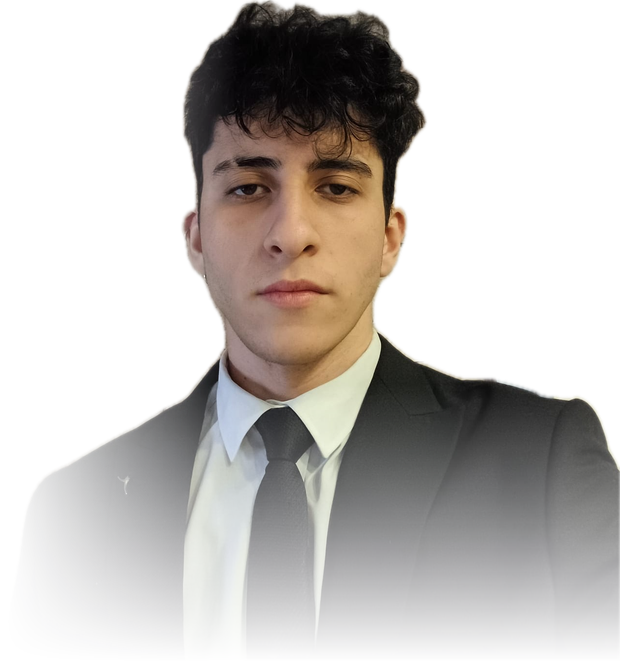
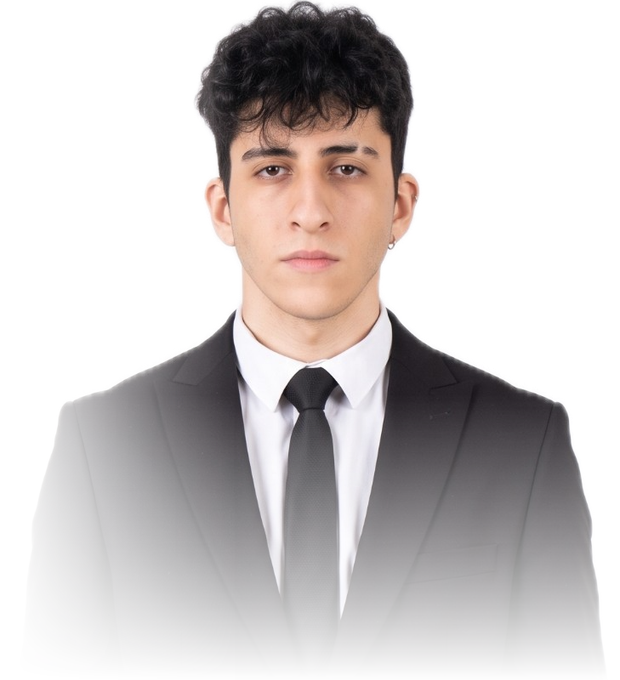
feat: use the studio portrait, lit for a dark page it was not shot against
The new frame is what the hero wanted: standing, thigh-up, plain background,
even light, and large enough that the subject survives the 2x retina crop the
old one was short of — 729px wide against a 768px requirement.

It arrives with one problem the night photograph did not have. That one was
rim-lit, which is why a cut-out of it read against a dark page. This suit is
near-black, shot on white, and nothing separates it from a dark background —
the shoulders dissolve and a face and a shirt float alone. The dark theme
therefore draws the rim itself: a `drop-shadow` follows the alpha outline
exactly, so it is a rim light and not a box shadow. The light theme inverts
it, grounding the figure with a faint shadow instead, because there the suit
is already the darkest thing on the page.

The file is renamed rather than replaced. Same-path swaps are how a stale
optimizer cache serves yesterday's picture — which it did here, twice, before
the rename made the URL tell the truth about its contents.

The share card moves to the same shoot: evenly lit beats a selfie's dropped
shoulder, and it is now one session rather than two.

The path lives in `profileFacts.portrait`, which another change had already
made the single source for both the hero and the Person structured data, so
this is one edit rather than three.

Verified at 1440 and 375 in both themes, and against the rendered OG card.

Changed region(s): [[0.0613, 0.0, 1.0, 0.9653], [0.7048, 0.6033, 0.7355, 0.6335]]

diff --git a/src/components/sections/hero-portrait.tsx b/src/components/sections/hero-portrait.tsx
@@ -18,13 +18,19 @@ const PORTRAIT = profileFacts.portrait;
  * subject mask, baked into the asset rather than run in the browser — so the
  * figure stands on the page itself and the hero's grid shows through behind him.
  *
- * What makes that work is the pool. The photograph was taken at night with rim
- * light on the hair and shoulders, and a lit edge only reads as deliberate
- * against something dark; on bare white it looks like a bad cut. So the figure
- * carries its own darkness, sized larger than he is and fading to nothing, and
- * the themes use it differently: a vignette he emerges from in the light theme,
- * a faint glow that lifts him off the background in the dark one. The colour is
- * the `--portrait-pool` token, not a value typed in here.
+ * What makes that work is the pool: the figure carries its own light, sized
+ * larger than he is and fading to nothing. The themes use it differently — a
+ * vignette he emerges from in the light theme, a glow that lifts him off the
+ * background in the dark one. The colour is the `--portrait-pool` token, not a
+ * value typed in here.
+ *
+ * The dark theme also needs a rim. The suit is near-black and the page is dark,
+ * so without one the shoulders simply dissolve and only a face and a shirt are
+ * left floating. A `drop-shadow` follows the alpha outline exactly, which makes
+ * it a rim light rather than a box shadow — the separation a studio photograph
+ * shot on white never had to provide for itself. The light theme inverts it:
+ * there the suit is already the darkest thing on the page, so a faint dark
+ * shadow grounds it instead of outlining it.
  *
  * The lower edge is masked rather than cropped. The subject mask ends where the
  * original frame ended — mid-thigh — and a straight horizontal line across a
@@ -73,7 +79,7 @@ export function HeroPortrait({ alt }: HeroPortraitProps) {
         height={PORTRAIT.height}
         priority
         sizes="(min-width: 1024px) 24rem, (min-width: 640px) 18rem, 15rem"
-        className="relative h-auto w-full select-none opacity-90 mix-blend-luminosity [mask-image:linear-gradient(to_bottom,black_58%,transparent_96%)] dark:opacity-95 dark:mix-blend-normal"
+        className="relative h-auto w-full select-none opacity-95 [filter:drop-shadow(0_18px_28px_color-mix(in_oklch,var(--color-foreground)_18%,transparent))] [mask-image:linear-gradient(to_bottom,black_72%,transparent_99%)] dark:opacity-100 dark:[filter:drop-shadow(0_0_1px_color-mix(in_oklch,var(--color-foreground)_55%,transparent))_drop-shadow(0_0_22px_color-mix(in_oklch,var(--color-primary)_38%,transparent))]"
       />
     </div>
   );

diff --git a/src/i18n/ui/tr.ts b/src/i18n/ui/tr.ts
@@ -40,7 +40,7 @@ export const tr: Dictionary = {
       "not-looking": "Şu an arayışta değilim",
     },
     viewProjects: "Projelere bak",
-    portraitAlt: "Utku Altınay'ın arka planı kaldırılmış, sayfanın üzerinde duran fotoğrafı.",
+    portraitAlt: "Koyu takım elbiseli Utku Altınay'ın, arka planı kaldırılmış fotoğrafı.",
   },
   glance: {
     availabilityNote: {

diff --git a/src/i18n/ui/en.ts b/src/i18n/ui/en.ts
@@ -43,7 +43,7 @@ export const en = {
       "not-looking": "Not currently looking",
     },
     viewProjects: "View projects",
-    portraitAlt: "Utku Altınay, cut out from a photograph and standing against the page.",
+    portraitAlt: "Utku Altınay, standing in a dark suit, cut out from the photograph's background.",
   },
   glance: {
     availabilityNote: {

diff --git a/src/data/profile.ts b/src/data/profile.ts
@@ -76,7 +76,7 @@ const profileFacts = {
   // phone number.
   resumeUrl: "/documents/utku-altinay-cv.pdf",
   // The background-free cut-out; its intrinsic size reserves the box (CLS 0).
-  portrait: { src: "/images/utku-altinay.webp", width: 572, height: 1157 },
+  portrait: { src: "/images/utku-altinay-suit.webp", width: 729, height: 1692 },
 } as const;
 
 /**

diff --git a/src/app/[lang]/opengraph-image.tsx b/src/app/[lang]/opengraph-image.tsx
@@ -72,7 +72,7 @@ export default async function OpengraphImage({
         */}
         <img
           src={portrait}
-          width={524}
+          width={511}
           height={560}
           alt=""
           style={{ position: "absolute", right: 0, bottom: 0 }}
